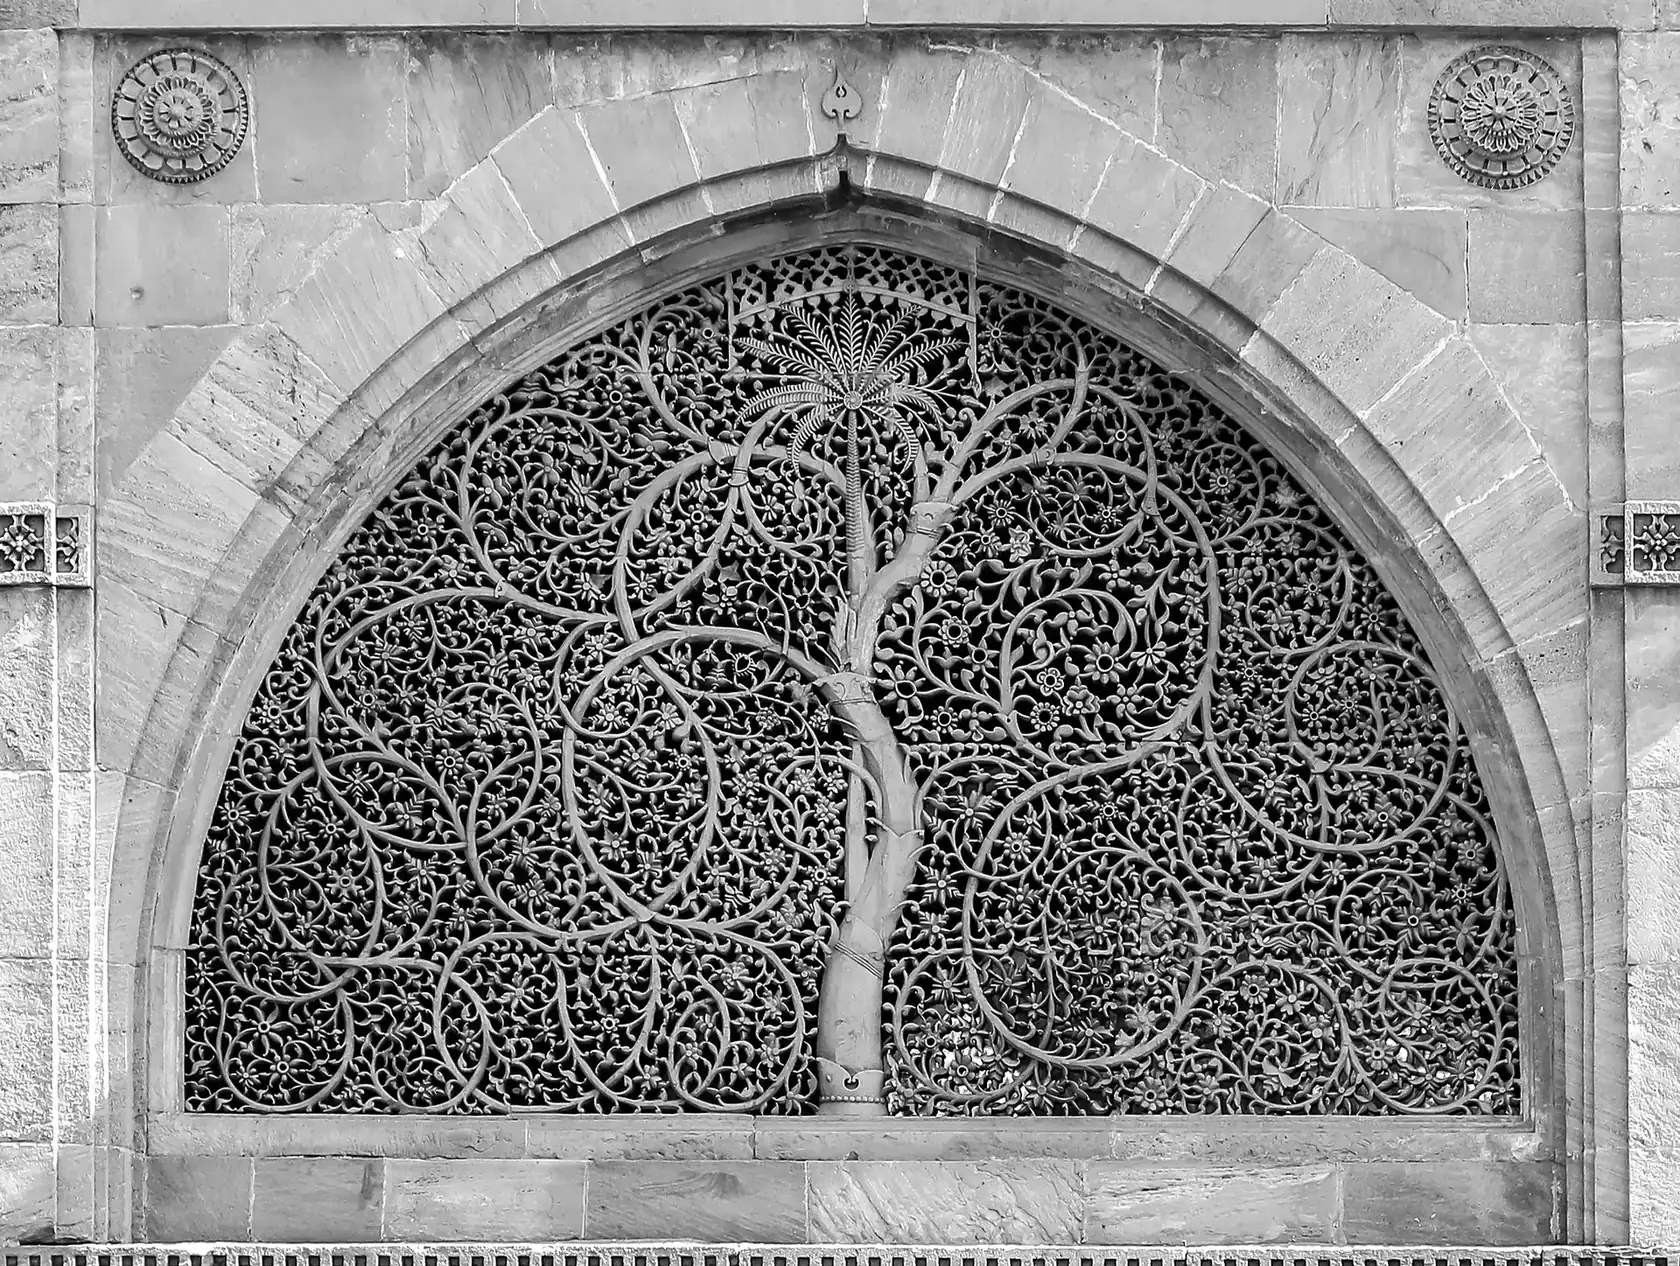
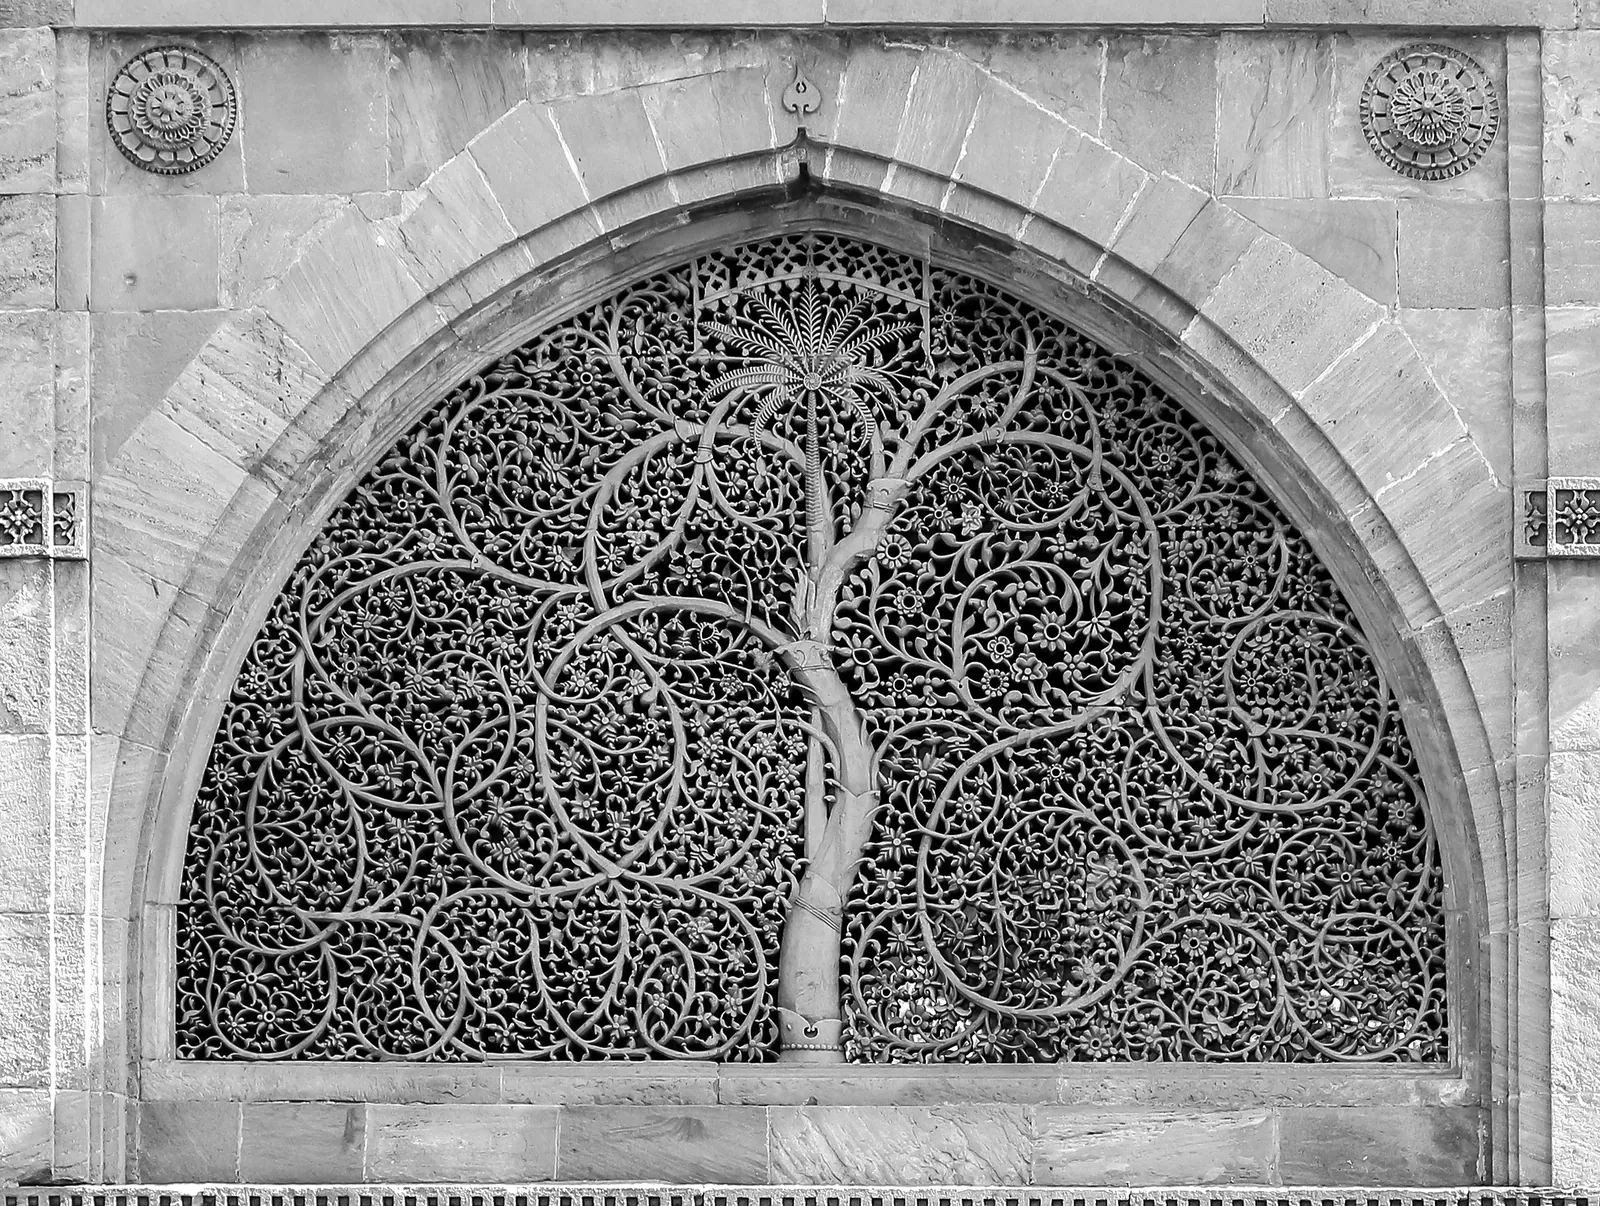
Sharper jali hero; GIFT City hero cropped tight on the towers
- Family Office: the jali is rebuilt from the full-resolution source with
  a 2x version for high-density screens (srcset; phones, where the photo
  fills the screen height, also get the sharp file).
- GIFT City: re-cropped from the 4000px original around the towers and
  sky, dropping the empty plots and foreground roads.

diff --git a/family-office.html b/family-office.html
@@ -119,8 +119,8 @@
   <!-- HERO -->
   <section class="sub-hero sub-hero--photo hero-photo--jali" data-glow>
     <div class="hero-photo" aria-hidden="true">
-      <img class="hero-photo-base" src="/images/heroes/family-office-jali.webp" alt="" fetchpriority="high" />
-      <img class="hero-photo-glow" src="/images/heroes/family-office-jali.webp" alt="" />
+      <img class="hero-photo-base" src="/images/heroes/family-office-jali.webp" srcset="/images/heroes/family-office-jali.webp 1600w, /images/heroes/family-office-jali@2x.webp 2812w" sizes="(max-aspect-ratio: 4/3) 133vh, 100vw" alt="" fetchpriority="high" />
+      <img class="hero-photo-glow" src="/images/heroes/family-office-jali.webp" srcset="/images/heroes/family-office-jali.webp 1600w, /images/heroes/family-office-jali@2x.webp 2812w" sizes="(max-aspect-ratio: 4/3) 133vh, 100vw" alt="" />
     </div>
     <p class="hero-credit">Tree of life jali, Sidi Saiyyed Mosque, Ahmedabad. Photo: Bernard Gagnon, <a href="https://commons.wikimedia.org/wiki/File:Jali_at_Sidi_Saiyyed_Mosque_02.jpg" target="_blank" rel="noopener">Wikimedia Commons</a>, <a href="https://creativecommons.org/licenses/by-sa/3.0/" target="_blank" rel="noopener">CC BY-SA 3.0</a>; cropped and converted to monochrome.</p>
     <div class="container sub-hero-content">

diff --git a/style.css b/style.css
@@ -5964,7 +5964,7 @@ html.lg-open { overflow: hidden; }
 .sub-hero--photo .grid-streak { display: none !important; }
 
 /* framing per photo */
-.hero-photo--gift { --hp-x: 40%; --hp-y: 60%; }
+.hero-photo--gift { --hp-x: 50%; --hp-y: 60%; }
 .hero-photo--jali { --hp-x: 50%; --hp-y: 46%; --glow-r: 340px; }
 .hero-photo--jali .hero-photo-base { filter: brightness(0.42) contrast(1.18); }
 
@@ -5991,7 +5991,7 @@ html.lg-open { overflow: hidden; }
   100% { --gx: 82%; --gy: 62%; }
 }
 @media (max-width: 720px) {
-  .hero-photo--gift { --hp-x: 46%; }
+  .hero-photo--gift { --hp-x: 33%; }
   .hero-photo--jali { --glow-r: 220px; }
   .hero-photo::after {
     background:
